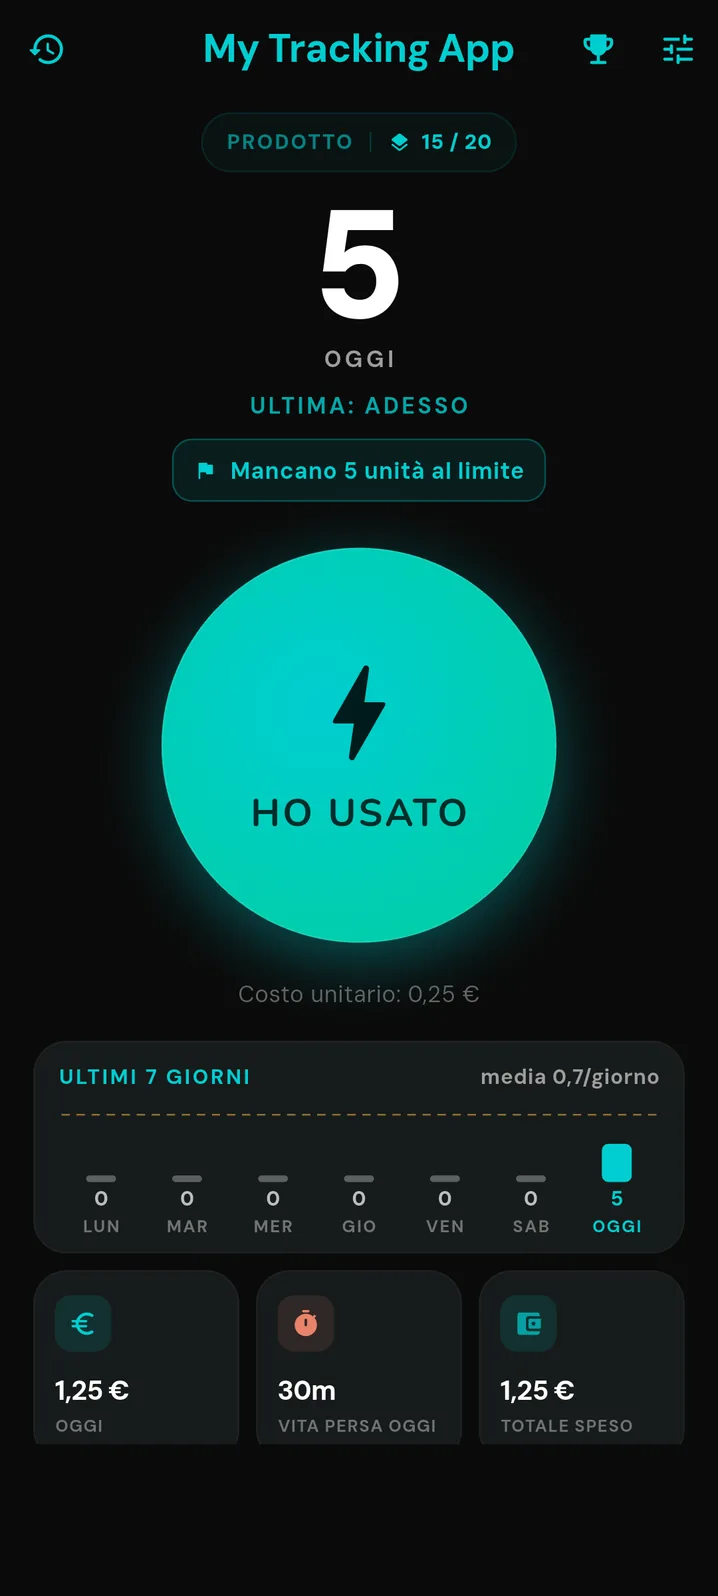
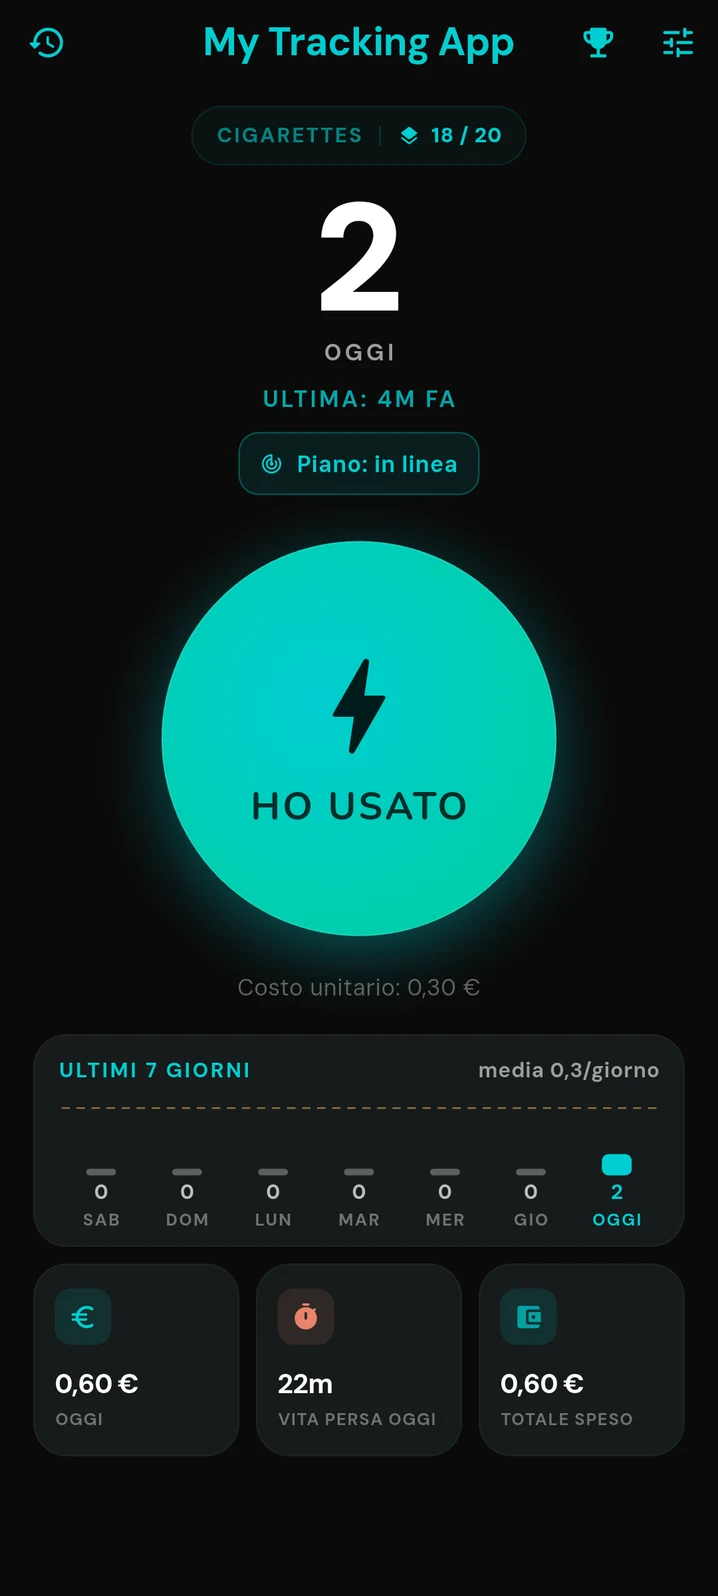
docs: README in italiano e inglese con le schermate aggiornate

diff --git a/README.md b/README.md
@@ -4,18 +4,27 @@
 
 [![CI](https://github.com/lorenzocaputodev/my_tracking_app/actions/workflows/ci.yml/badge.svg)](https://github.com/lorenzocaputodev/my_tracking_app/actions/workflows/ci.yml) [![Release](https://img.shields.io/github/v/release/lorenzocaputodev/my_tracking_app)](https://github.com/lorenzocaputodev/my_tracking_app/releases/latest) [![License](https://img.shields.io/github/license/lorenzocaputodev/my_tracking_app)](LICENSE) ![Flutter](https://img.shields.io/badge/built%20with-Flutter-02569B)
 
+🇮🇹 [Italiano](#-italiano) · 🇬🇧 [English](#-english)
+
+📲 **Download:** [ultima versione / latest release](https://github.com/lorenzocaputodev/my_tracking_app/releases/latest) (APK)
+
+---
+
+## 🇮🇹 Italiano
+
 > **Conta le sigarette, riduci al tuo ritmo e scopri quanto risparmi.**
 
 - 🚬 Tieni sotto controllo sigarette, IQOS e svapo, o qualsiasi abitudine vuoi ridurre
 - 🔒 Senza account e senza pubblicità: i tuoi dati restano solo sul tuo telefono
+- 🌍 In italiano e in inglese: parte nella lingua del telefono e si cambia dalle impostazioni
 
-## 📲 Scarica l’app
+### 📲 Scarica l’app
 
 Vuoi solo installarla? Scarica l’APK dall’**[ultima versione pubblicata](https://github.com/lorenzocaputodev/my_tracking_app/releases/latest)** e aprilo dal telefono: Android ti chiederà di consentire l’installazione di app scaricate dal browser.
 
 > **Avevi una versione precedente alla 1.4.0?** Dalla 1.4.0 l’app ha un nuovo identificativo, quindi Android la installa come app nuova. Per portare i tuoi dati: nella vecchia app vai in Impostazioni → **Esporta backup**, installa la nuova, usa **Importa backup** e poi disinstalla la vecchia.
 
-## 📸 Schermate
+### 📸 Schermate
 
 <p align="center">
   <img src="assets/screenshots/app_home.webp" alt="Home" width="23%">
@@ -26,9 +35,7 @@ Vuoi solo installarla? Scarica l’APK dall’**[ultima versione pubblicata](htt
 
 <p align="center"><sub>Home · Obiettivi e badge · Impostazioni · Cronologia</sub></p>
 
----
-
-## ✨ Funzionalità principali
+### ✨ Funzionalità principali
 
 - 📦 Più prodotti da seguire, con un selettore rapido per passare dall’uno all’altro
 - 📊 Home con conteggio giornaliero, scorta, costi e ultimi 7 giorni
@@ -40,117 +47,138 @@ Vuoi solo installarla? Scarica l’APK dall’**[ultima versione pubblicata](htt
 - 🗄 Archiviazione dei prodotti con storico conservato
 - 📄 Backup ed esportazione in CSV, ripristinabili già dalla prima configurazione
 - ♿ Etichette per TalkBack e layout che regge il testo ingrandito dal sistema
-- 📲 Widget Android per la schermata Home in tre dimensioni: **piccola**, **media** e **grande**
-- 🔔 Promemoria periodici, proposti già alla prima configurazione
+- 📲 Widget Android per la schermata Home in tre dimensioni: **piccola**, **media** e **grande**, con tema scuro o chiaro
+- 🔔 Promemoria periodici ogni 30 minuti, 1, 2, 4, 8 o 12 ore, proposti già alla prima configurazione
 - 🎨 Tema **scuro / chiaro / sistema**
+- 🌍 Lingua **italiano / inglese / sistema**: al primo avvio segue il telefono (italiano se è in italiano, altrimenti inglese)
 - 🆕 «Controlla aggiornamenti» mostra la versione installata e apre la pagina delle nuove versioni su GitHub
-- 🔒 Dati salvati localmente sul dispositivo
 
----
+### 🔐 Privacy e dati
 
-## 🔔 Sistema notifiche
+- Nessun account richiesto e nessun backend
+- Nessun accesso a internet: «Controlla aggiornamenti» apre la pagina nel browser
+- Dati salvati solo sul dispositivo; il backup CSV lo esporti tu, quando vuoi
 
-L’app supporta promemoria periodici globali di registrazione con i seguenti intervalli:
+### 🧰 Compilare il progetto
 
-- 30 minuti
-- 1 ora
-- 2 ore
-- 4 ore
-- 8 ore
-- 12 ore
-
-Le notifiche sono gestite su Android tramite:
-
-- `flutter_local_notifications`
-- `workmanager`
-
----
-
-## 🛠 Piattaforme
-
-- 🤖 **Android**: piattaforma prioritaria
-- 🖥 **Windows**: supporto utile per debug e test locali
-
----
-
-## 🧰 Requisiti per compilare
-
-Prerequisiti, con le versioni su cui la build è verificata:
+Versioni su cui la build è verificata:
 
 - Flutter **3.47.5** stable (Dart 3.13.4)
 - Android SDK con platform **android-36**, build-tools 36.0.0 e NDK 28.2.13676358
-- **JDK 21** — Gradle 8.14.5 non supporta JDK 25, quindi va agganciato con
+- **JDK 21**: Gradle 8.14.5 non supporta JDK 25, quindi va agganciato con
   `flutter config --jdk-dir "<percorso del JDK 21>"`
-- Visual Studio Code
-- Solo per la versione Windows: Visual Studio Build Tools con i componenti C++ e **C++ ATL**
+- Solo per la versione Windows (usata per debug e test): Visual Studio Build Tools con i componenti C++ e **C++ ATL**
 
-La catena di build usa Gradle 8.14.5, AGP 8.13.2 e Kotlin 2.2.21, volutamente
-entro la linea 8.x di AGP.
-
-Le versioni pubblicate sono firmate con una chiave personale che non è nel repository.
-Senza `android/key.properties` la build di release si ferma con un errore: per provare l'app usa `flutter build apk --debug`.
-
-`android/gradle.properties` dimensiona il daemon Gradle a 2 GB di heap: su
-macchine con poca RAM valori più alti fanno terminare il daemon a metà build.
-
----
-
-## ⚡ Compilare il progetto
-
-Se vuoi compilare il progetto sul tuo PC:
-
-### 1. Clona la repository
 ```bash
 git clone https://github.com/lorenzocaputodev/my_tracking_app.git
 cd my_tracking_app
-```
-
-### 2. Installa le dipendenze
-```bash
 flutter pub get
-```
-
-### 3. Genera le icone ufficiali
-```bash
-dart run flutter_launcher_icons
-```
-
-### 4. Avvia l’app
-```bash
 flutter run
 ```
 
----
+- La catena di build usa Gradle 8.14.5, AGP 8.13.2 e Kotlin 2.2.21, volutamente entro la linea 8.x di AGP.
+- `android/gradle.properties` dimensiona il daemon Gradle a 2 GB di heap: su macchine con poca RAM valori più alti lo fanno terminare a metà build.
+- Le versioni pubblicate sono firmate con una chiave personale che non è nel repository: senza `android/key.properties` la build di release si ferma con un errore. Per provare l’app usa `flutter build apk --debug`.
+- I testi dell’app sono in `lib/l10n/app_it.arb` e `app_en.arb` (generati con `flutter gen-l10n`); quelli del widget in `android/app/src/main/res/values/` e `values-it/`.
 
-## 📂 Struttura essenziale
+### 📂 Struttura essenziale
 
 - `lib/models/` → modelli dati
 - `lib/providers/` → stato applicativo e persistenza
 - `lib/screens/` → schermate principali
 - `lib/widgets/` → componenti UI riutilizzabili
+- `lib/l10n/` → traduzioni italiano e inglese
 - `lib/theme/` → token di design, temi e decorazioni
 - `lib/utils/` → utility, bridge e formattazione
[2 lines of base64/hex data omitted]
 
----
-
-## 🔐 Privacy e dati
-
-- Nessun account richiesto
-- Nessun backend obbligatorio
-- Nessun accesso a internet: «Controlla aggiornamenti» apre la pagina nel browser
-- Dati salvati localmente sul dispositivo
-
----
-
-## 👨💻 Sviluppo
+### 👨💻 Sviluppo
 
 Durante lo sviluppo, il debugging e la rifinitura del progetto è stato utilizzato supporto AI come assistenza tecnica per troubleshooting, revisione della documentazione, verifica di problemi tecnici e supporto alla scrittura e pulizia del codice.
 
+### 👤 Autore
+
+**Lorenzo Caputo** · GitHub: [lorenzocaputodev](https://github.com/lorenzocaputodev) · Portfolio: [lorenzocaputo.is-a.dev](https://lorenzocaputo.is-a.dev/)
+
 ---
 
-## 👤 Autore
+## 🇬🇧 English
 
-**Lorenzo Caputo**  
-GitHub: [lorenzocaputodev](https://github.com/lorenzocaputodev)  
-Portfolio: [lorenzocaputo.is-a.dev](https://lorenzocaputo.is-a.dev/)
+> **Count your cigarettes, cut down at your own pace and see how much you save.**
+
+- 🚬 Keep track of cigarettes, IQOS and vapes, or any habit you want to reduce
+- 🔒 No account and no ads: your data stays on your phone only
+- 🌍 In English and Italian: it starts in your phone's language and can be changed in Settings
+
+### 📲 Download the app
+
+Just want to install it? Download the APK from the **[latest release](https://github.com/lorenzocaputodev/my_tracking_app/releases/latest)** and open it on your phone: Android will ask you to allow installing apps downloaded from the browser.
+
+> **Had a version older than 1.4.0?** Since 1.4.0 the app has a new identifier, so Android installs it as a new app. To bring your data over: in the old app go to Settings → **Export backup**, install the new one, use **Import backup** and then uninstall the old app.
+
+### 📸 Screenshots
+
+<p align="center">
+  <img src="assets/screenshots/app_home_en.webp" alt="Home" width="23%">
+  <img src="assets/screenshots/app_goals_en.webp" alt="Achievements and badges" width="23%">
+  <img src="assets/screenshots/app_settings_en.webp" alt="Settings" width="23%">
+  <img src="assets/screenshots/app_history_en.webp" alt="History" width="23%">
+</p>
+
+<p align="center"><sub>Home · Achievements and badges · Settings · History</sub></p>
+
+### ✨ Main features
+
+- 📦 Track several products, with a quick switcher to move between them
+- 📊 Home screen with daily count, stock, costs and the last 7 days
+- 📈 History grouped by day, week and month, with charts and statistics
+- ↩ Undo after every entry and every deletion
+- 🏆 Unlockable achievements and badges
+- 📉 A reduction plan **for each product**
+- ⚙ Settings with a page for each product, even when it isn't in use
+- 🗄 Archive products and keep their history
+- 📄 CSV backup and export, which you can restore right from the first setup
+- ♿ TalkBack labels and a layout that handles enlarged system text
+- 📲 Android home screen widget in three sizes: **small**, **medium** and **large**, with a dark or light theme
+- 🔔 Periodic reminders every 30 minutes or 1, 2, 4, 8 or 12 hours, offered right at first setup
+- 🎨 **Dark / light / system** theme
+- 🌍 **Italian / English / system** language: on first launch it follows your phone (Italian if the phone is in Italian, English otherwise)
+- 🆕 “Check for updates” shows the installed version and opens the releases page on GitHub
+
+### 🔐 Privacy and data
+
+- No account and no backend
+- No internet access: “Check for updates” opens the page in your browser
+- Data is stored only on the device; you export the CSV backup yourself, whenever you want
+
+### 🧰 Building the project
+
+Versions the build is verified on:
+
+- Flutter **3.47.5** stable (Dart 3.13.4)
+- Android SDK with platform **android-36**, build-tools 36.0.0 and NDK 28.2.13676358
+- **JDK 21**: Gradle 8.14.5 doesn't support JDK 25, so set it with
+  `flutter config --jdk-dir "<path to JDK 21>"`
+- Windows build only (used for debugging and tests): Visual Studio Build Tools with the C++ and **C++ ATL** components
+
+```bash
+git clone https://github.com/lorenzocaputodev/my_tracking_app.git
+cd my_tracking_app
+flutter pub get
+flutter run
+```
+
+- The build chain uses Gradle 8.14.5, AGP 8.13.2 and Kotlin 2.2.21, deliberately within the AGP 8.x line.
+- `android/gradle.properties` gives the Gradle daemon a 2 GB heap: on machines with little RAM, higher values make it stop mid-build.
+- Published releases are signed with a personal key that isn't in the repository: without `android/key.properties` the release build stops with an error. To try the app, use `flutter build apk --debug`.
+- App strings live in `lib/l10n/app_it.arb` and `app_en.arb` (generated with `flutter gen-l10n`); widget strings in `android/app/src/main/res/values/` and `values-it/`.
+
+The project structure is described in the Italian section above.
+
+### 👨💻 Development
+
+AI tools were used during development, debugging and polishing as technical support for troubleshooting, documentation review, checking technical issues and help with writing and cleaning up the code.
+
+### 👤 Author
+
+**Lorenzo Caputo** · GitHub: [lorenzocaputodev](https://github.com/lorenzocaputodev) · Portfolio: [lorenzocaputo.is-a.dev](https://lorenzocaputo.is-a.dev/en/)
